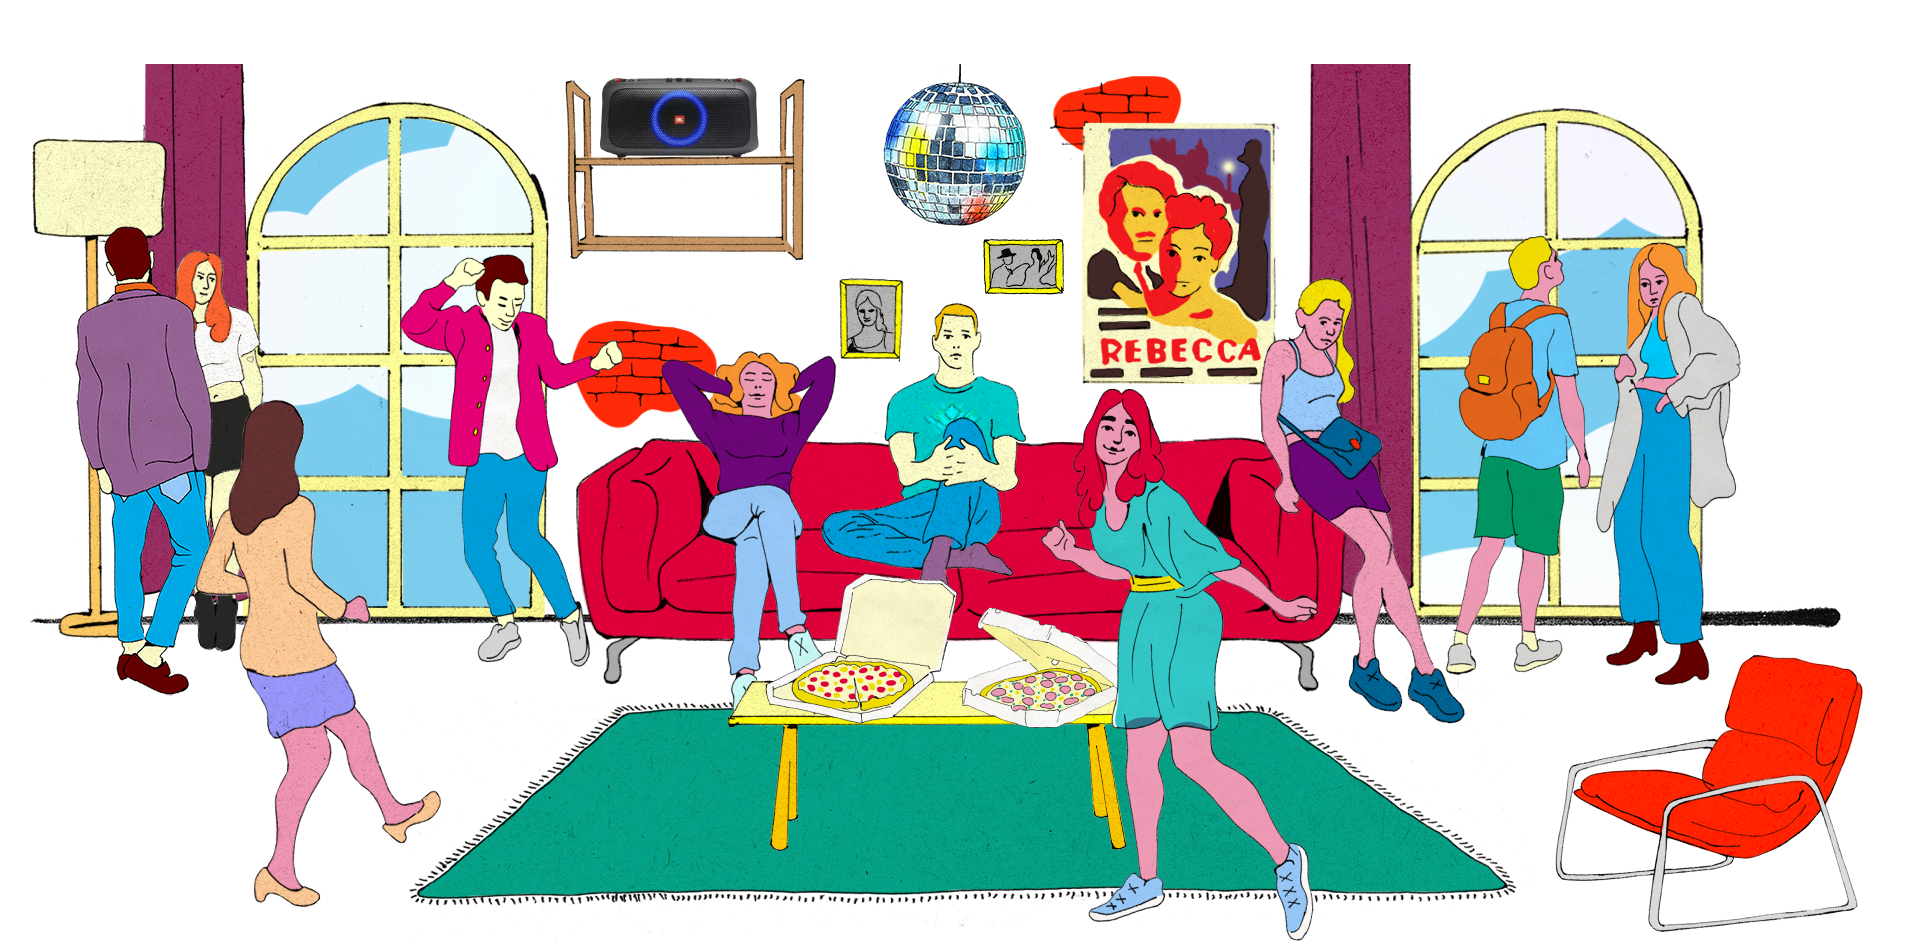
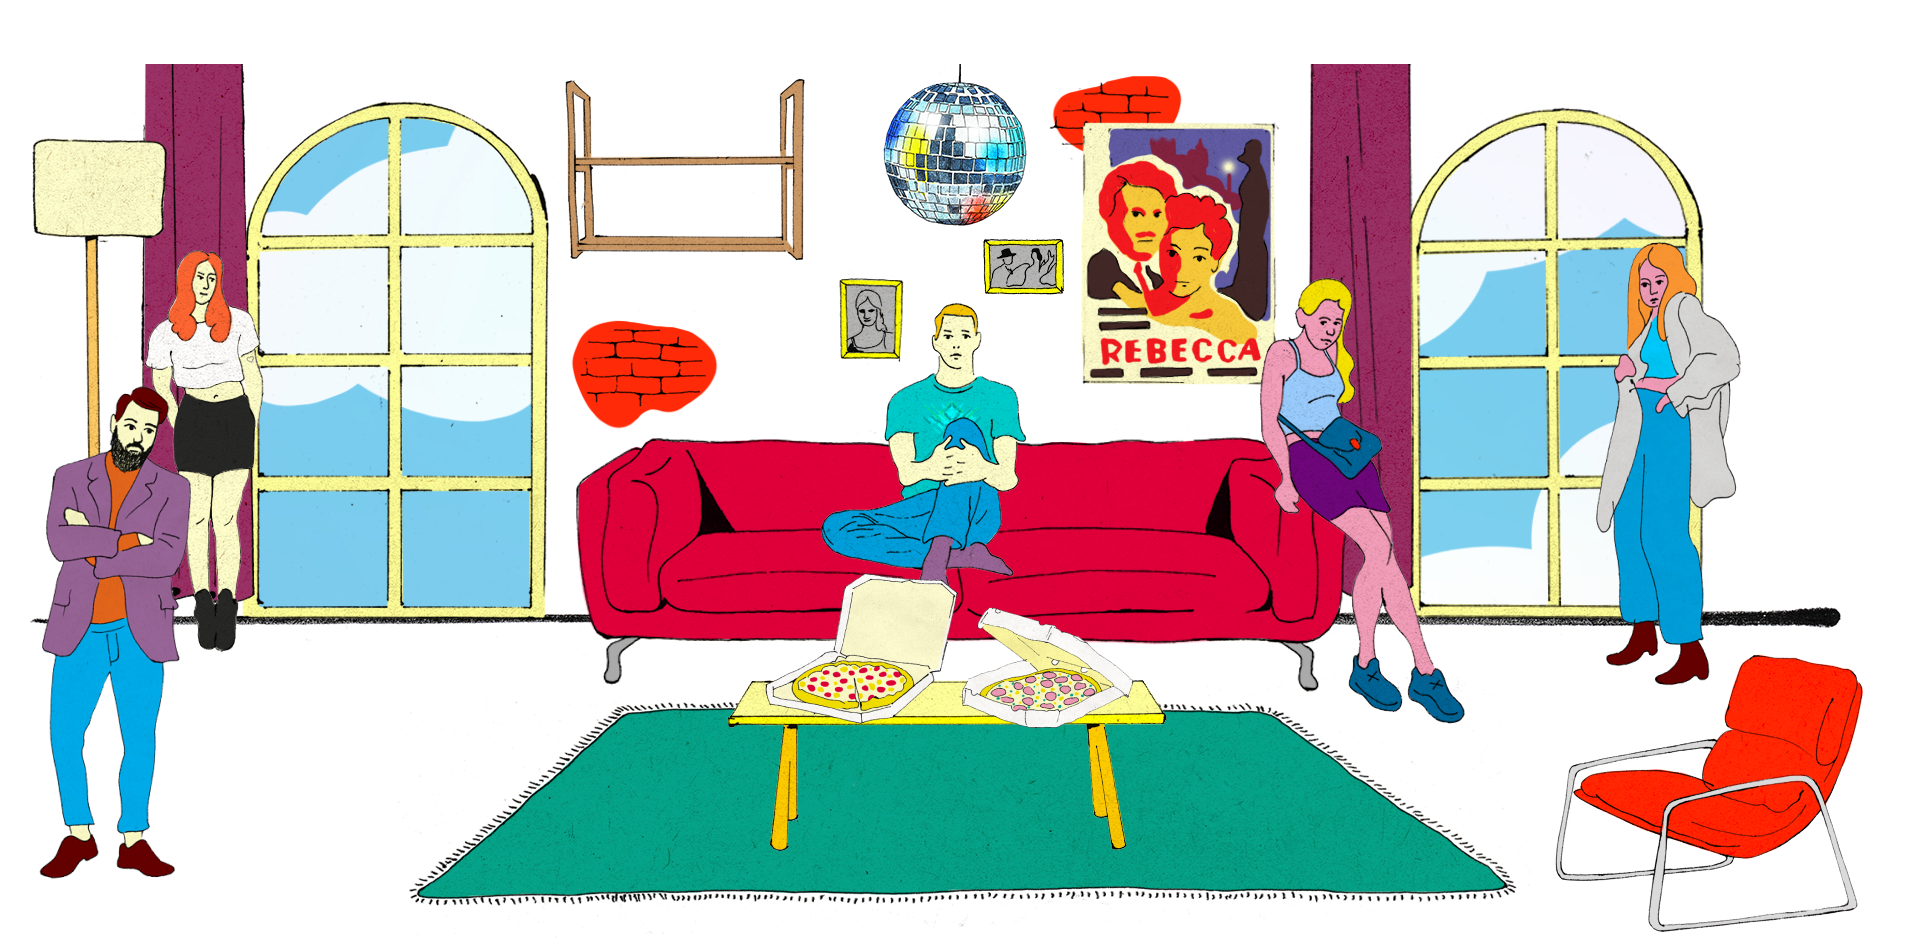
Added animate people for scene and finish location 1

diff --git a/src/context.js b/src/context.js
@@ -18,7 +18,12 @@ export default function ContextProvider({ children }) {
         return window.innerWidth < window.innerHeight && window.innerWidth < 768 ? true : false;
     }
 
+    function getHeight() {
+        return window.innerWidth / 2.17;
+    }
+
     const [em, setEm] = useState(getEm());
+    const [globalHeight, setGlobalHeight] = useState(getHeight());
     const [screen, setScreen] = useState('start');//start / game / final
     const [level, setLevel] = useState(0); //0 //5
     const [yesno, setYesNo] = useState(null);
@@ -62,6 +67,7 @@ export default function ContextProvider({ children }) {
     useEffect(()=>{
         setEm(getEm());
         setIsMobale(getIsMobile());
+        setGlobalHeight(getHeight());
     },[]);
 
     const startGame = () => {
@@ -72,6 +78,7 @@ export default function ContextProvider({ children }) {
     window.addEventListener('resize', () =>{
         setEm(getEm());
         setIsMobale(getIsMobile());
+        setGlobalHeight(getHeight());
     });
 
     const changeLevel = () => {
@@ -81,7 +88,7 @@ export default function ContextProvider({ children }) {
     }
 
     return (
-        <Context.Provider value={{ IMAGES, em, isMobale, imgsLoaded, countLoaded, screen, startGame, overley, setOverley, level, yesno, setYesNo, changeLevel, result, setResult }}>
+        <Context.Provider value={{ IMAGES, em, isMobale, imgsLoaded, countLoaded, screen, startGame, overley, setOverley, level, yesno, setYesNo, changeLevel, result, setResult, globalHeight }}>
         {children}
         </Context.Provider>
     );

diff --git a/src/components/Game/Game.js b/src/components/Game/Game.js
@@ -3,14 +3,15 @@ import {Context} from '../../context';
 
 import levels from './levelsData';
 import Scale from '../Scale/Scale';
+import AnimateIMG from '../AnimateIMG/AnimateIMG';
 
 import './Game.scss';
 
 export default function Game() {
 
-    const {IMAGES, level, yesno, changeLevel, overley} = useContext(Context);
+    const {IMAGES, level, yesno, changeLevel, overley, globalHeight} = useContext(Context);
 
-    const {bgImg, corect, nocorect} = levels[level];
+    const {bgImg, corect, nocorect, animate} = levels[level];
 
     let id = bgImg;
 
@@ -18,8 +19,9 @@ export default function Game() {
     if(yesno === false) id = nocorect;
 
     return (
-        <div className="app-game">
+        <div className="app-game" style={{height: globalHeight}}>
             <img className="app-game-bgimg" src={IMAGES[id].url} alt={IMAGES[id].name}/>
+            {!overley && <AnimateIMG animate={animate} />}
             {!overley && (
                 <div className="app-game-btn-next" onClick={changeLevel}>
                     <span>Далее</span>

diff --git a/src/components/Overley/Overley.js b/src/components/Overley/Overley.js
@@ -8,7 +8,7 @@ import './Overley.scss';
 
 export default function Overley() {
 
-    const {IMAGES, setOverley, setYesNo, level, result, setResult} = useContext(Context);
+    const {IMAGES, setOverley, setYesNo, level, result, setResult, globalHeight} = useContext(Context);
 
     const [countOverley, setCoutnOverlaey] = useState(0);
     const [animation, setAnimation] = useState(0);
@@ -90,7 +90,7 @@ export default function Overley() {
     }
 
     return (
-        <div className="overlay" ref={el => (refElem = el)}>
+        <div className="overlay" ref={el => (refElem = el)} style={{height: globalHeight}}>
             <div className="overlay-message" ref={el => (refWin = el)} style={style}>
                 <img src={IMAGES[idBg].url} alt={IMAGES[idBg].name}/>
                 <div className="overlay-content">

diff --git a/src/dataImg.js b/src/dataImg.js
@@ -26,6 +26,9 @@ import mess5 from './img/mess5.png';
 import btnArrow from './img/btnArrow.png';
 import turn from './img/turn.png';
 import scale from './img/scale.png';
+import gif1 from './img/gif1.gif';
+import gif2 from './img/gif2.gif';
+import gif3 from './img/gif3.png';
 
 const dataImages = [
     {
@@ -167,6 +170,21 @@ const dataImages = [
         id: 27,
         name: 'scale',
         url: scale
+    },
+    {
+        id: 28,
+        name: 'gif1',
+        url: gif1
+    },
+    {
+        id: 29,
+        name: 'gif2',
+        url: gif2
+    },
+    {
+        id: 30,
+        name: 'gif3',
+        url: gif3
     },
 ];
 

diff --git a/src/components/Game/levelsData.js b/src/components/Game/levelsData.js
@@ -1,8 +1,13 @@
 const levels = [
     {
         bgImg: 7,
-        corect: 7,
-        nocorect: 7,
+        corect: 12,
+        nocorect: 12,
+        animate: [
+            {id: 28, style: {left: '33.7em', top: '18.3em', width: '22.9em', height: '42.1em'}},
+            {id: 29, style: {left: '143.2em', top: '16.8em', width: '14.6em', height: '43.8em'}},
+            {id: 30, style: {left: '132.9em', top: '24.1em', width: '20.2em', height: '56.2em'}},
+        ]
     },
     {
         bgImg: 7,

diff --git a/src/components/AnimateIMG/AnimateIMG.js b/src/components/AnimateIMG/AnimateIMG.js
@@ -1,0 +1,19 @@
+import React, {useContext} from 'react';
+import {Context} from '../../context';
+
+import './AnimateIMG.scss';
+
+export default function AnimateIMG({animate}) {
+
+    const {IMAGES} = useContext(Context);
+
+    const elements = animate.map(el =>{
+        return <img key={el.id} src={IMAGES[el.id].url} alt={IMAGES[el.id].name} style={el.style}/>
+    });
+
+    return (
+        <div className="animate-img">
+            {elements}
+        </div>
+    )
+}

diff --git a/public/index.html b/public/index.html
@@ -59,12 +59,6 @@
       href="https://medialeaks.ru/wp-content/themes/medialeaks_2k19/assets/build/bundle.css?ver=6.6.6" type="text/css"
       media="all">
 
-    <style>
-      #root {
-          min-height: calc(100vh - 64px);
-      }
-    </style>
-
     <script>
 
       if (/iPad|iPhone|iPod/.test(navigator.userAgent)) {

diff --git a/src/components/AnimateIMG/AnimateIMG.scss b/src/components/AnimateIMG/AnimateIMG.scss
@@ -1,0 +1,10 @@
+.animate-img {
+    height: 100%;
+    position: absolute;
+    width: 100%;
+    z-index: 2;
+
+    img {
+        position: absolute;
+    }
+}
